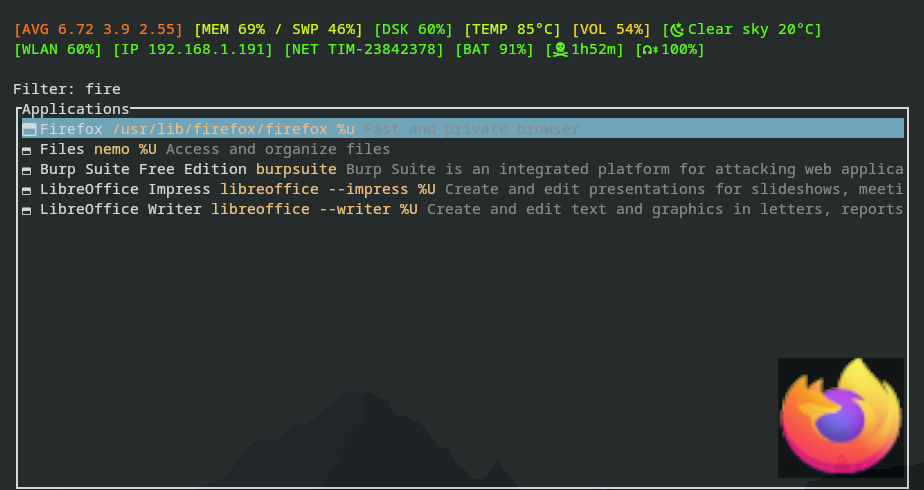
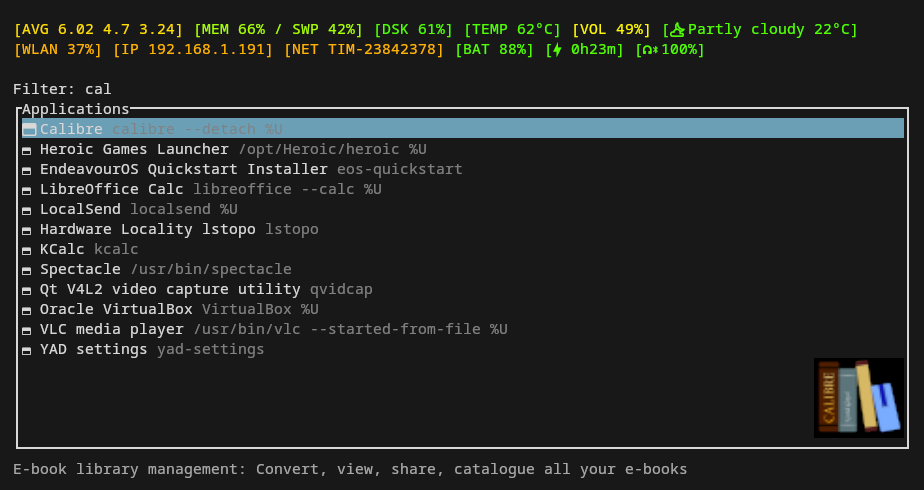
Update README.md and screenshots

diff --git a/README.md b/README.md
@@ -6,7 +6,7 @@ Skoll is, in norse mythology, a wolf who chases the sun, causing eclipses. And i
 
 ## UI preview
 
-![image](screenshots/high_mem_avg_crop.png)
+![image](screenshots/preview_crop.png)
 
 The upper area provides a compact snapshot of the current system state.
 
@@ -23,25 +23,17 @@ Information about system resources is collected from another process: Ratatoskr.
 
 ## Screenshots
 
-No warnings, no filter
-![image](screenshots/normal_crop.png)
+High avgload, "cod" in filter:
+![image](screenshots/high_avg.png)
 
-No warnings, filter with "fire"
-![image](screenshots/normal_firefox_crop.png)
+Slightly high memory usage and temperature, empty filter:
+![image](screenshots/medium_high_memory_temp_crop.png)
 
-High memory usage, high avgload, medium-high volume:
-![image](screenshots/high_mem_avg_vol_crop.png)
+Very high memory usage and high temperature:
+![image](screenshots/very_high_memory_temp_crop.png)
 
-Medium-high memory, medium avgload, muted:
-![image](screenshots/high_memory_crop.png)
-
-Medium-high avgload, medium memory, medium temp:
-![image](screenshots/high_temp_firefox_crop.png)
-
-With bluetooth headphones connected (headphone battery 100%):
+With bluetooth headphones connected (headphone battery 100%) and "cal" in filter:
 ![image](screenshots/with_headphones_crop.png)
-
-
 
 ## Note
 
@@ -53,6 +45,5 @@ Please note that this is a personal project, for personal use, developed in my (
 - ~~Full network information, like IP and networkname, on a dedicated row~~ Done!
 - ~~Fix resources information order~~ Done!
 - ~~Add battery ETA if available~~ Done!
-- Create a dedicated area for selected executable properties and icon?
 - ~~Fuzzy search~~ Done!
 - ~~History~~ Done!
